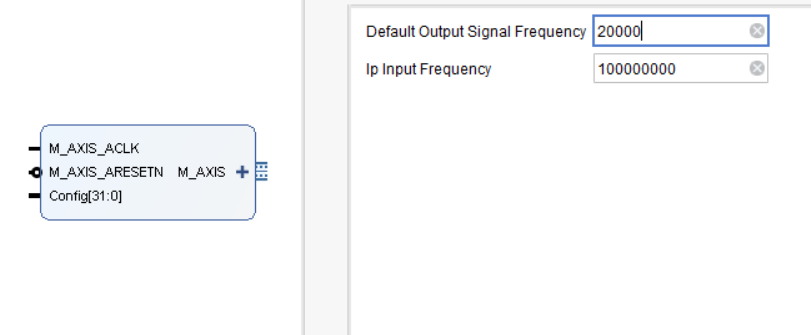
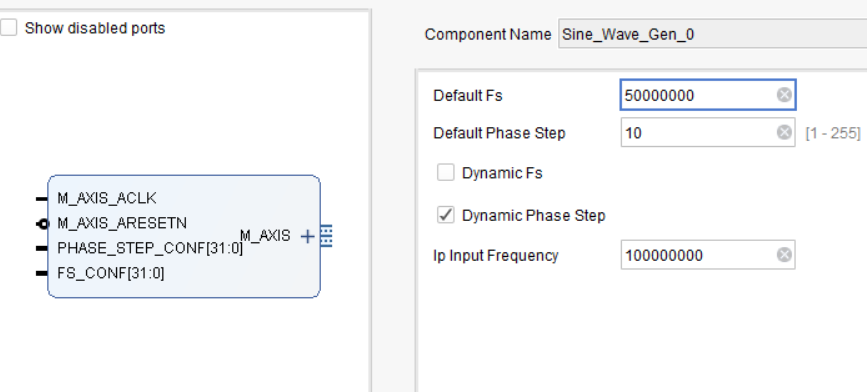
README and gui.png updated.

diff --git a/README.md b/README.md
@@ -4,74 +4,120 @@
 
 ## Overview
 
-`Sine_Wave_Gen` is a synthesizable VHDL module that generates an 8-bit sine wave using a precomputed lookup table. The frequency of the output signal is configurable through a 32-bit input vector. This module is designed to be compatible with AXI Stream (AXIS) interfaces.
+`Sine_Wave_Gen` is a synthesizable VHDL module that generates an 8-bit sine wave using a precomputed lookup table. The output frequency is configurable at runtime using a dynamic phase increment. The design is compatible with AXI Stream (AXIS) interfaces and suitable for integration with FFT, DAC, or streaming pipelines.
 
->  **Inspired by**: [SINE_WAVE_VHDL_GENERATOR](https://github.com/iamhosseinali/SINE_WAVE_VHDL_GENERATOR)
+> **Inspired by**: [SINE_WAVE_VHDL_GENERATOR](https://github.com/iamhosseinali/SINE_WAVE_VHDL_GENERATOR)
 
 ---
 
 ## Features
 
 - Outputs 8-bit signed sine wave samples
-- Uses a 1024-entry sine lookup table
-- Configurable output frequency via 32-bit `Config` input
-- Supports runtime frequency reconfiguration
+- Uses a 256-entry LUT for sine samples (i.e., phase resolution = 8 bits)
+- Supports dynamic output frequency adjustment via:
+  - **Phase increment control** (optional)
+- Fully AXI-Stream compatible (`tDATA`, `tVALID`)
+- Configurable via 32-bit control words
+
+---
+
+## Frequency Formula
+
+When using a fixed sampling rate (`Fs`):
+
+```
+
+f_out = (phase_step × Fs) / 2^8
+
+```
+
+To generate a target output frequency:
+
+```
+
+phase_step = (f_out × 256) / Fs
+
+```
 
 ---
 
 ## Ports
 
-| Signal         | Direction | Width | Description |
-|----------------|-----------|-------|-------------|
-| `M_AXIS_ACLK`  | `in`      | 1     | Clock input |
-| `M_AXIS_ARESETN` | `in`    | 1     | Active-low reset |
-| `M_AXIS_tDATA` | `out`     | 8     | Sine wave output (signed) |
-| `M_AXIS_tVALID`| `out`     | 1     | Indicates valid output |
-| `Config`       | `in`      | 32    | Control input: <br>Bit 31: Valid flag <br>Bits 30:0: `IP_INPUT_FREQ / OUT_FREQ / 1024` |
+| Signal            | Direction | Width | Description |
+|-------------------|-----------|-------|-------------|
+| `M_AXIS_ACLK`     | `in`      | 1     | Clock input |
+| `M_AXIS_ARESETN`  | `in`      | 1     | Active-low reset |
+| `M_AXIS_tDATA`    | `out`     | 8     | Sine wave output (signed) |
+| `M_AXIS_tVALID`   | `out`     | 1     | Indicates valid output |
+| `PHASE_STEP_CONF` | `in`      | 32    | Dynamic phase increment config: <br> Bit 31 = valid, Bits [7:0] = phase step |
+| `FS_CONF`         | `in`      | 32    | Dynamic sample rate config: <br> Bit 31 = valid, Bits [30:0] = (Input Freq / Fs) - 1 |
 
 ---
 
 ## Generics
 
-| Name                            | Default       | Description |
-|---------------------------------|---------------|-------------|
-| `IP_INPUT_FREQUENCY`           | `100_000_000` | Input clock frequency (Hz) |
-| `DEFAULT_OUTPUT_SIGNAL_FREQUENCY` | `50`        | Default sine output frequency (Hz) |
+| Name                 | Default       | Description |
+|----------------------|---------------|-------------|
+| `Dynamic_Fs`         | `false`       | Enables runtime sampling rate control |
+| `Dynamic_Phase_Step` | `false`       | Enables runtime phase step control |
+| `IP_INPUT_FREQUENCY` | `100_000_000` | Clock frequency of `M_AXIS_ACLK` in Hz |
+| `DEFAULT_Fs`         | `100_000_000` | Default output sampling rate (Hz) |
+| `DEFAULT_PHASE_STEP` | `1`           | Default DDS phase increment (1–255) |
 
->  Maximum default output frequency is limited by:  
-> `DEFAULT_OUTPUT_SIGNAL_FREQUENCY <= IP_INPUT_FREQUENCY / 2048`
->  But you can reach (IP_INPUT_FREQUENCY / 1024) by setting Config(30:0) to 0 at runtime. 
+---
 
 ## Behavior
 
-1. `Config(30:0)` is used to dynamically change the output frequency when `Config(31)` is high.
+1. When `Dynamic_Fs = true`, the output rate is gated by `FS_CONF`.
+   - Output updates occur once every `(IP_INPUT_FREQUENCY / Fs) - 1` clock cycles.
+2. When `Dynamic_Phase_Step = true`, the frequency can be changed at runtime by updating `PHASE_STEP_CONF(7:0)`.
+3. LUT index is advanced by `phase_step`, producing the output sine waveform.
+4. AXIS signals (`tDATA`, `tVALID`) are asserted only when valid output is generated.
 
-2. A block RAM-styled lookup table stores precomputed sine values.
+---
 
+## Output Waveform Resolution
 
+- **Amplitude resolution**: 8 bits (signed)
+- **Phase resolution**: 8 bits (256 samples per cycle)
+- **Output frequency resolution**:  
+  Depends on `phase_step` and `Fs`. Smallest `f_out` step:
 
-# Clone and Recreation
-This project was built with vivado 2018.2, so make sure you are using this exact version.  
-PL projects often come with some custom IPs, these IPs can be HDL or HLS, sth like this: 
 ```
-ip_repo
-    ├───HDL
-    │   ├───HDL_IP_1
-    │   └───HDL_IP_2
-    └───HLS
-        ├───HLS_IP_1
-        └───HLS_IP_2
+
+delta_f = Fs / 256
+
 ```
-> This is the recommended directory structure of your custom IPs. 
 
-After cloning and before running the project_name.tcl to recreate the whole vivado project, firstly recreate the HLS IPs projects. 
+---
 
-## Recreating the PL Project
-In vivado command prompt or TCL Consol of the GUI run: 
+## Clone and Recreation
 
-``` source c:\...\project_name\project_name.tcl ```
+This project was built with Vivado 2018.2. Make sure you use the exact version for full compatibility.
 
-Wait untill recreation is completed. 
+Recommended directory structure for IPs:
 
-Refer to this [repo](https://github.com/iamhosseinali/vivado-git) and look for the right branch based on your vivado version to use vivado and git together like the project above.
+```
 
+ip_repo/
+├── HDL/
+│   ├── HDL_IP_1/
+│   └── HDL_IP_2/
+└── HLS/
+├── HLS_IP_1/
+└── HLS_IP_2/
+
+````
+
+> Recreate HLS IPs before sourcing the Vivado project TCL script.
+
+### Recreating the PL Project
+
+In Vivado TCL Console (or command prompt with Vivado environment sourced), run:
+
+
+``` source c:/.../project_name/project_name.tcl ```
+
+Wait until the recreation process completes.
+
+Refer to this [repo](https://github.com/iamhosseinali/vivado-git) and look for the correct branch based on your Vivado version to learn how to properly manage Git with Vivado-generated files.
